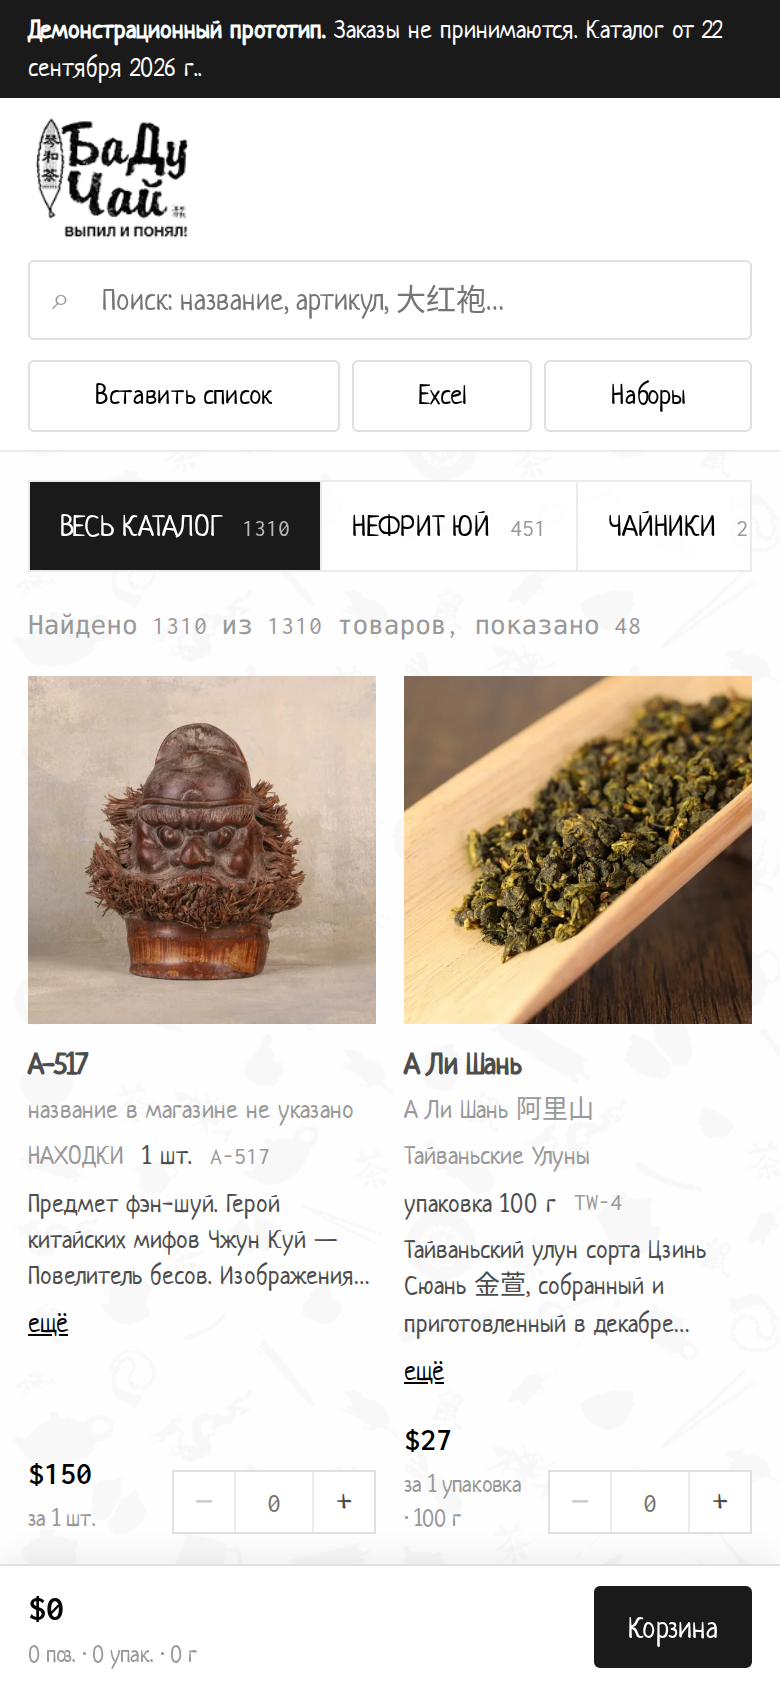
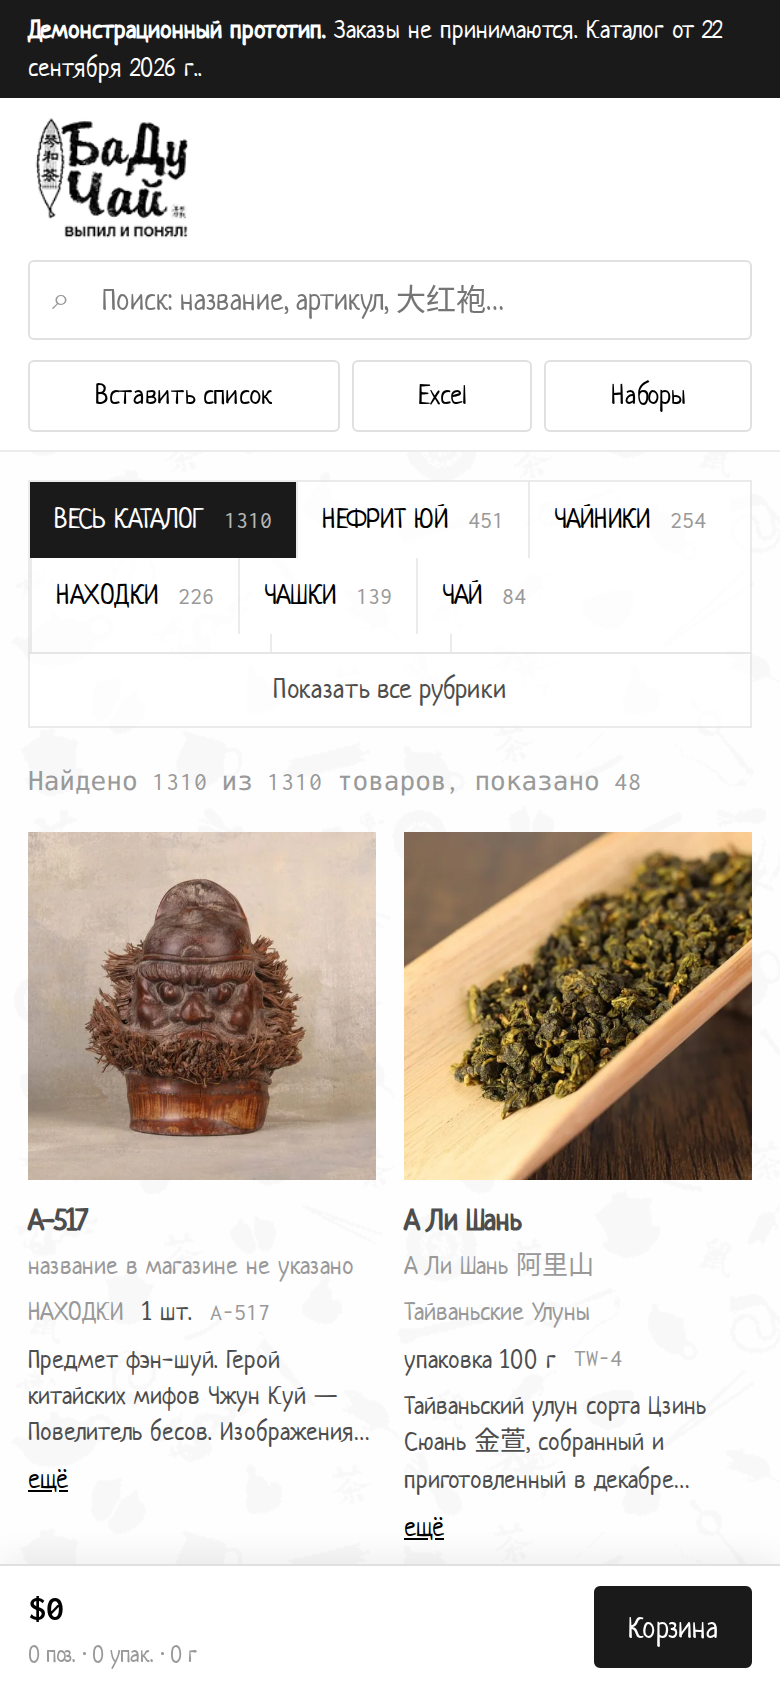
Рубрики переносятся по строкам вместо горизонтальной прокрутки
На узком экране ряд рубрик уходил в горизонтальную прокрутку и выглядел
обрезанным — было не видно, что он прокручивается, и часть рубрик казалась
недоступной. Теперь рубрики переносятся по строкам на любой ширине, а верхний
ряд сворачивается до двух строк с кнопкой «Показать все рубрики». Кнопка
появляется только при реальном переполнении и следит за изменением ширины окна.

Добавлена проверка вёрстки на 11 ширинах от 320 до 1440 px: отсутствие
горизонтальной прокрутки, выход элементов за край, обрезка рубрик, доступность
каждой рубрики, работа фильтра и добавление в корзину.

Changed region(s): [[0.0308, 0.2773, 0.9846, 0.9242], [0.7077, 0.2773, 0.9231, 0.3389], [0.6462, 0.3389, 0.6769, 0.3697]]

diff --git a/src/App.tsx b/src/App.tsx
@@ -1,4 +1,4 @@
-import { useCallback, useDeferredValue, useEffect, useMemo, useRef, useState } from 'react'
+import { useCallback, useDeferredValue, useEffect, useLayoutEffect, useMemo, useRef, useState } from 'react'
 import type { Catalog, CartLine, CategoryNode, Product } from './lib/types'
 import { buildIndex, searchProducts, type ProductIndex } from './lib/match'
 import { buildCategoryTree, filterRows, filterByCategory, pathTo, type CategoryTree } from './lib/categories'
@@ -296,6 +296,15 @@ interface Ctx {
  * Фильтр повторяет устройство меню исходного сайта: рубрики верхнего уровня,
  * под ними — подрубрики выбранной, и так далее вглубь.
  */
+/**
+ * Фильтр повторяет устройство меню исходного сайта: рубрики верхнего уровня,
+ * под ними — подрубрики выбранной, и так далее вглубь.
+ *
+ * Рубрики всегда переносятся по строкам. Горизонтальная прокрутка на узком
+ * экране не годилась: ряд выглядел обрезанным, и было не видно, что он
+ * прокручивается. Вместо этого верхний ряд сворачивается до двух строк с
+ * кнопкой «ещё» — она появляется, только если рубрики реально не поместились.
+ */
 function CategoryFilter({
   rows,
   crumbs,
@@ -309,29 +318,67 @@ function CategoryFilter({
   total: number
   onSelect: (id: number | null) => void
 }) {
+  const rootRef = useRef<HTMLDivElement | null>(null)
+  const [expanded, setExpanded] = useState(false)
+  const [overflows, setOverflows] = useState(false)
+
+  // Пока ряд свёрнут, следим, помещаются ли рубрики: при смене ширины окна
+  // кнопка «ещё» должна появляться и исчезать сама.
+  useLayoutEffect(() => {
+    const el = rootRef.current
+    if (!el || expanded) return
+    const check = () => setOverflows(el.scrollHeight > el.clientHeight + 2)
+    check()
+    const observer = new ResizeObserver(check)
+    observer.observe(el)
+    return () => observer.disconnect()
+  }, [rows, expanded])
+
   return (
     <div className="filter" data-testid="category-filter">
-      {rows.map((row, level) => (
-        <div className={`chips${level > 0 ? ' chips-sub' : ''}`} key={level}>
-          {level === 0 && (
-            <button className="chip" aria-pressed={selected === null} onClick={() => onSelect(null)}>
-              Весь каталог <span className="chip-count">{total}</span>
-            </button>
-          )}
-          {level > 0 && <span className="chips-label">в рубрике «{crumbs[level - 1]?.name}»:</span>}
-          {row.map((c) => (
-            <button
-              key={c.id}
-              className="chip"
-              aria-pressed={crumbs.some((x) => x.id === c.id)}
-              data-testid={`chip-${c.slug}`}
-              onClick={() => onSelect(crumbs.some((x) => x.id === c.id) ? (c.parent ?? null) : c.id)}
-            >
-              {c.name} <span className="chip-count">{c.count}</span>
-            </button>
-          ))}
-        </div>
-      ))}
+      {rows.map((row, level) => {
+        const isRoot = level === 0
+        // Сворачиваем по умолчанию, а не «когда обнаружено переполнение»:
+        // без ограничения высоты scrollHeight равен clientHeight, и переполнение
+        // никогда бы не обнаружилось.
+        const collapsed = isRoot && !expanded
+        return (
+          <div
+            key={level}
+            ref={isRoot ? rootRef : undefined}
+            className={`chips${isRoot ? '' : ' chips-sub'}${collapsed ? ' chips-collapsed' : ''}`}
+          >
+            {isRoot && (
+              <button className="chip" aria-pressed={selected === null} onClick={() => onSelect(null)}>
+                Весь каталог <span className="chip-count">{total}</span>
+              </button>
+            )}
+            {!isRoot && <span className="chips-label">в рубрике «{crumbs[level - 1]?.name}»:</span>}
+            {row.map((c) => (
+              <button
+                key={c.id}
+                className="chip"
+                aria-pressed={crumbs.some((x) => x.id === c.id)}
+                data-testid={`chip-${c.slug}`}
+                onClick={() => onSelect(crumbs.some((x) => x.id === c.id) ? (c.parent ?? null) : c.id)}
+              >
+                {c.name} <span className="chip-count">{c.count}</span>
+              </button>
+            ))}
+          </div>
+        )
+      })}
+
+      {overflows && (
+        <button
+          className="chips-more"
+          data-testid="chips-more"
+          aria-expanded={expanded}
+          onClick={() => setExpanded((v) => !v)}
+        >
+          {expanded ? 'Свернуть рубрики' : 'Показать все рубрики'}
+        </button>
+      )}
     </div>
   )
 }

diff --git a/src/styles/app.css b/src/styles/app.css
@@ -153,6 +153,17 @@ input, textarea, select { font-family: var(--hand); font-size: 15px; color: inhe
 
 .result-line { font-family: var(--mono); font-size: 13px; color: var(--ink-faint); margin: 0 0 16px; }
 
+/* Свёрнутый ряд рубрик: ровно две строки кнопок.
+   Высоту задаём в em, чтобы она следовала за размером шрифта на узких экранах. */
+.chips-collapsed { max-height: 6.2em; overflow: hidden; }
+.chips-more {
+  display: block; width: 100%; margin-top: -1px;
+  padding: 8px 12px; border: 1px solid var(--line-soft); background: rgba(255, 255, 255, 0.72);
+  font-family: var(--hand); font-size: 14px; color: var(--ink-soft);
+}
+.chips-more:hover { background: var(--accent-soft); color: #000; }
+@media (max-width: 880px) { .chips-collapsed { max-height: 5.4em; } }
+
 /* -- Сетка товаров: карточки без рамок, как на сайте -- */
 .grid { display: grid; gap: 26px 20px; grid-template-columns: repeat(auto-fill, minmax(232px, 1fr)); }
 .card { display: flex; flex-direction: column; position: relative; scroll-margin-top: 150px; }
@@ -335,11 +346,10 @@ textarea.field { min-height: 158px; resize: vertical; font-family: var(--mono); 
   .header-actions .btn { flex: 1 1 auto; }
   /* в корзину ведёт нижняя панель — дублирующая кнопка съедает первый экран */
   .cart-btn { display: none; }
-  /* рубрики одной прокручиваемой строкой вместо нескольких рядов */
-  .chips { flex-wrap: nowrap; overflow-x: auto; scrollbar-width: none; width: 100%; min-width: 0; }
-  .chips::-webkit-scrollbar { display: none; }
-  .chip { flex: 0 0 auto; padding: 11px 15px; }
-  .chips-label { display: none; }
+  /* рубрики переносятся по строкам; компактнее, чтобы помещалось больше */
+  .chip { padding: 9px 12px; font-size: 14px; }
+  .chips-sub .chip { padding: 8px 11px; font-size: 13px; }
+  .chips-label { padding: 8px 11px; font-size: 12px; }
   .layout { padding: 14px; }
   .grid { gap: 20px 14px; grid-template-columns: repeat(auto-fill, minmax(150px, 1fr)); }
   /* на узком экране описание сворачиваем до трёх строк, иначе список

diff --git a/README.md b/README.md
@@ -21,10 +21,12 @@ npm run preview   # просмотр собранной версии
 ## Проверки
 
 ```bash
-npm test            # 94 модульных теста (vitest)
-npm run build       # сборка обязательна перед двумя следующими командами
-npm run qa:browser  # 42 браузерных сценария (playwright) + скриншоты в qa/
+npm test            # 104 модульных теста (vitest)
+npm run build       # сборка обязательна перед следующими командами
+npm run qa:browser  # 48 браузерных сценариев (playwright) + скриншоты в qa/
+npm run qa:widths   # вёрстка на 11 ширинах от 320 до 1440 px
 npm run perf        # замер скорости, отчёт в qa/perf-report.json
+npm run qa:all      # всё перечисленное подряд
 ```
 
 ## Обновление снимка каталога
@@ -47,7 +49,9 @@ npm run catalog:fetch
 **Каталог** — поиск по названию, артикулу, китайскому названию и псевдонимам;
 фильтр по рубрикам, повторяющий меню магазина: рубрики верхнего уровня, под ними
 подрубрики выбранной, и третий уровень у «Улун». Выбор родительской рубрики
-показывает и товары вложенных. Фасовка, цена и наличие в карточке; короткое
+показывает и товары вложенных. Рубрики всегда переносятся по строкам; если на
+узком экране они не помещаются в два ряда, появляется кнопка «Показать все
+рубрики» — горизонтальной прокрутки, в которой ряд выглядел обрезанным, нет. Фасовка, цена и наличие в карточке; короткое
 описание и фото без перехода на другую страницу; ввод количества и кнопки ±.
 Количество всегда означает подписанную единицу продажи (блин 357 г, мешочек
 100 г, для предметов — штука).
